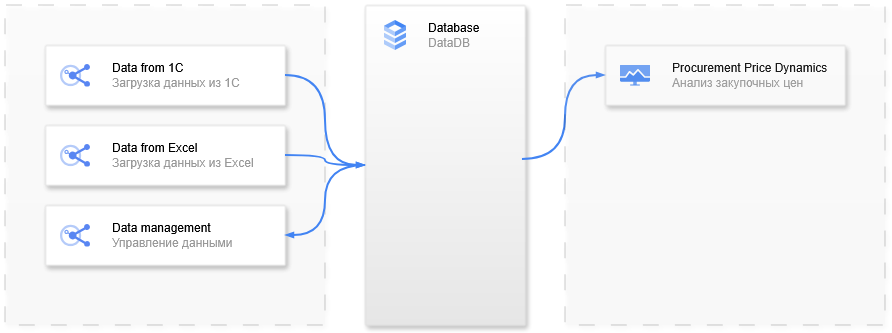
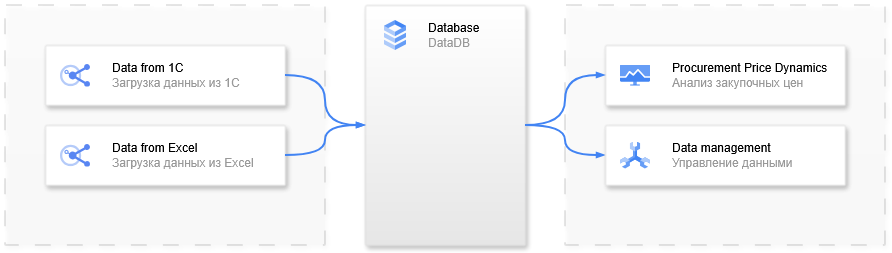
add ProductGroup

diff --git a/DataFrom1C/Infrastructure/Repositories/MSSql/Migrations/20260717121045_AddProductGroup.cs b/DataFrom1C/Infrastructure/Repositories/MSSql/Migrations/20260717121045_AddProductGroup.cs
@@ -1,0 +1,43 @@
+using Microsoft.EntityFrameworkCore.Migrations;
+
+#nullable disable
+
+namespace DataFrom1C.Infrastructure.Repositories.MSSql.Migrations
+{
+    /// <inheritdoc />
+    public partial class AddProductGroup : Migration
+    {
+        /// <inheritdoc />
+        protected override void Up(MigrationBuilder migrationBuilder)
+        {
+            migrationBuilder.AddColumn<string>(
+                name: "ProductGroupId",
+                table: "Contracts",
+                type: "nvarchar(max)",
+                nullable: true);
+
+            migrationBuilder.CreateTable(
+                name: "ProductGroups",
+                columns: table => new
+                {
+                    ProductGroupId = table.Column<string>(type: "nvarchar(450)", nullable: false),
+                    Name = table.Column<string>(type: "nvarchar(max)", nullable: true)
+                },
+                constraints: table =>
+                {
+                    table.PrimaryKey("PK_ProductGroups", x => x.ProductGroupId);
+                });
+        }
+
+        /// <inheritdoc />
+        protected override void Down(MigrationBuilder migrationBuilder)
+        {
+            migrationBuilder.DropTable(
+                name: "ProductGroups");
+
+            migrationBuilder.DropColumn(
+                name: "ProductGroupId",
+                table: "Contracts");
+        }
+    }
+}

diff --git a/DataFrom1C/Infrastructure/DataSource/OneC/GetData1C.cs b/DataFrom1C/Infrastructure/DataSource/OneC/GetData1C.cs
@@ -7,6 +7,7 @@ using DataFrom1C.Infrastructure.DataSource.Models.CreditToCurrentAccount;
 using DataFrom1C.Infrastructure.DataSource.Models.DebitToCurrentAccount;
 using DataFrom1C.Infrastructure.DataSource.Models.ImplementationConstructionWorks;
 using DataFrom1C.Infrastructure.DataSource.Models.Nomenclature;
+using DataFrom1C.Infrastructure.DataSource.Models.NomenclatureGroup;
 using DataFrom1C.Infrastructure.DataSource.Models.ReceiptGoodsServices;
 using DataFrom1C.Infrastructure.DataSource.Models.ReceiptProcessing;
 using DataFrom1C.Infrastructure.DataSource.Models.SaleGoodsServices;
@@ -175,7 +176,7 @@ namespace DataFrom1C.Infrastructure.DataSource.OneC
         public async Task<IEnumerable<Contract>> ContractAsync() // Договоры контрагентов
         {
             var contractCounterpartiesUrl = ApiUrl + "Catalog_ДоговорыКонтрагентов?$format=json"
-                + "&$select=Ref_Key,Номер,Description,Дата,Сумма,Owner_Key"
+                + "&$select=Ref_Key,Номер,Description,Дата,Сумма,Owner_Key,НоменклатурнаяГруппа_Key"
                 + "&$filter=DeletionMark eq false";
             using HttpResponseMessage contractCounterpartiesResponse = await httpClient.GetAsync(contractCounterpartiesUrl);
             var contractCounterparties = await contractCounterpartiesResponse.Content.ReadFromJsonAsync<ContractCounterparties>();
@@ -186,7 +187,8 @@ namespace DataFrom1C.Infrastructure.DataSource.OneC
                 Amount = x.Amount ?? 0,
                 Number = x.Number,
                 Name = x.Name,
-                ContractorId = x.ContractorId
+                ContractorId = x.ContractorId,
+                ProductGroupId = x.ProductGroupId
             });
         }
 
@@ -290,6 +292,28 @@ namespace DataFrom1C.Infrastructure.DataSource.OneC
                 CashFlowItemId = x.Ref_Key,
                 Name = x.Description
             });
+        }
+
+        public async Task<IEnumerable<ProductGroup>> ProductGroupAsync() // Номенклатурные группы
+        {
+            var nomenclatureGroupsUrl = ApiUrl + "Catalog_НоменклатурныеГруппы?$format=json"
+                + "&$select=Ref_Key,Description"
+                + "&$filter=DeletionMark eq false";
+            using HttpResponseMessage nomenclatureGroupsResponse = await httpClient.GetAsync(nomenclatureGroupsUrl);
+            var nomenclatureGroups = await nomenclatureGroupsResponse.Content.ReadFromJsonAsync<NomenclatureGroup>();
+            return nomenclatureGroups.Value.Select(x => new ProductGroup
+            {
+                ProductGroupId = x.Ref_Key,
+                Name = x.Description
+            });
+        }
+
+        public async Task<AdditionalInformation> AdditionalInformationAsync() // Дополнительные сведения
+        {
+            var additionalInformationUrl = ApiUrl + "InformationRegister_ДополнительныеСведения?$format=json"
+                + "&$select=Объект,Значение,Значение_Type";
+            using HttpResponseMessage additionalInformationResponse = await httpClient.GetAsync(additionalInformationUrl);
+            return await additionalInformationResponse.Content.ReadFromJsonAsync<AdditionalInformation>();
         }
     }
 }

diff --git a/DataFrom1C/Domain/ProductGroup.cs b/DataFrom1C/Domain/ProductGroup.cs
@@ -1,0 +1,11 @@
+using System.ComponentModel.DataAnnotations;
+
+namespace DataFrom1C.Domain
+{
+    public class ProductGroup
+    {
+        [Key]
+        public string ProductGroupId { get; set; }
+        public string Name { get; set; }
+    }
+}

diff --git a/DataFrom1C/Infrastructure/DataSource/Models/NomenclatureGroup/NomenclatureGroup.cs b/DataFrom1C/Infrastructure/DataSource/Models/NomenclatureGroup/NomenclatureGroup.cs
@@ -1,0 +1,10 @@
+using System.Text.Json.Serialization;
+
+namespace DataFrom1C.Infrastructure.DataSource.Models.NomenclatureGroup
+{
+    public class NomenclatureGroup
+    {
+        [JsonPropertyName("value")]
+        public NomenclatureGroupValue[] Value { get; set; }
+    }
+}

diff --git a/DataFrom1C/Infrastructure/DataSource/Models/NomenclatureGroup/NomenclatureGroupValue.cs b/DataFrom1C/Infrastructure/DataSource/Models/NomenclatureGroup/NomenclatureGroupValue.cs
@@ -1,0 +1,8 @@
+namespace DataFrom1C.Infrastructure.DataSource.Models.NomenclatureGroup
+{
+    public class NomenclatureGroupValue
+    {
+        public string Ref_Key { get; set; }
+        public string Description { get; set; }
+    }
+}

diff --git a/DataFrom1C/Infrastructure/Repositories/MSSql/MSSqlRepository.cs b/DataFrom1C/Infrastructure/Repositories/MSSql/MSSqlRepository.cs
@@ -91,5 +91,12 @@ namespace DataFrom1C.Infrastructure.Repositories.MSSql
             await _dataContext.CashFlowItems.AddRangeAsync(cashFlowItems);
             await _dataContext.SaveChangesAsync();
         }
+
+        public async Task ProductGroupAsync(IEnumerable<ProductGroup> productGroups)
+        {
+            await _dataContext.Database.ExecuteSqlRawAsync("TRUNCATE TABLE ProductGroups");
+            await _dataContext.ProductGroups.AddRangeAsync(productGroups);
+            await _dataContext.SaveChangesAsync();
+        }
     }
 }

diff --git a/DataFrom1C/Application/Services/UpdateDataService.cs b/DataFrom1C/Application/Services/UpdateDataService.cs
@@ -78,5 +78,11 @@ namespace DataFrom1C.Application.Services
             var getCashFlowItem = await _getData.CashFlowItemAsync();
             await _saveData.CashFlowItemAsync(getCashFlowItem);
         }
+
+        public async Task ProductGroupAsync()
+        {
+            var getProductGroup = await _getData.ProductGroupAsync();
+            await _saveData.ProductGroupAsync(getProductGroup);
+        }
     }
 }

diff --git a/DataFrom1C/Domain/MoreInformation.cs b/DataFrom1C/Domain/MoreInformation.cs
@@ -1,0 +1,6 @@
+namespace DataFrom1C.Domain
+{
+    public class MoreInformation
+    {
+    }
+}

diff --git a/DataManagement/Infrastructure/Repositories/MSSql/MSSqlRepository.cs b/DataManagement/Infrastructure/Repositories/MSSql/MSSqlRepository.cs
@@ -11,10 +11,9 @@ namespace DataManagement.Infrastructure.Repositories.MSSql
 
         public async Task<IEnumerable<AddObjectOfSaleInPurchasePayment>> AddObjectOfSaleInPurchasePaymentAsync()
         {
-            string sql = "SELECT DocumentId, Date, Amount, ContractId, PaymentPurpose, CashFlowItems.Name AS CashFlowItem " +
-                "FROM PurchasePayments " +
-                "LEFT JOIN CashFlowItems ON PurchasePayments.CashFlowItemId = CashFlowItems.CashFlowItemId";
+            string sql = "SELECT PurchasePayments.DocumentId, PurchasePayments.ContractId, PurchasePayments.Date, PurchasePayments.Amount, PaymentPurpose, CashFlowItems.Name AS CashFlowItem,\r\nProductGroups.Name AS PropertyContract\r\nFROM PurchasePayments\r\nLEFT JOIN CashFlowItems ON PurchasePayments.CashFlowItemId = CashFlowItems.CashFlowItemId\r\nLEFT JOIN Contracts ON PurchasePayments.ContractId = Contracts.ContractId\r\nLEFT JOIN ProductGroups ON Contracts.ProductGroupId = ProductGroups.ProductGroupId\r\nWHERE NOT EXISTS ( SELECT * FROM ObjectOfSaleInPurchasePayments WHERE ObjectOfSaleInPurchasePayments.DocumentId = PurchasePayments.DocumentId)\r\nAND YEAR(PurchasePayments.Date) > 2025\r\nORDER BY PurchasePayments.Date";
             return await _dbConnection.QueryAsync<AddObjectOfSaleInPurchasePayment>(sql);
         }
     }
 }
+

diff --git a/DataFrom1C/Infrastructure/DataSource/Models/ContractCounterparties/ContractCounterpartiesValue.cs b/DataFrom1C/Infrastructure/DataSource/Models/ContractCounterparties/ContractCounterpartiesValue.cs
@@ -21,5 +21,8 @@ namespace DataFrom1C.Infrastructure.DataSource.Models.ContractCounterparties
 
         [JsonPropertyName("Owner_Key")]
         public string ContractorId { get; set; } // Подрядчик
+
+        [JsonPropertyName("НоменклатурнаяГруппа_Key")]
+        public string ProductGroupId { get; set; }
     }
 }

diff --git a/DataFrom1C/Application/Interfaces/IGetData.cs b/DataFrom1C/Application/Interfaces/IGetData.cs
@@ -16,5 +16,6 @@ namespace DataFrom1C.Application.Interfaces
         Task<IEnumerable<ProductAndService>> ProductAndServiceAsync();
         Task<IEnumerable<Warehouse>> WarehouseAsync();
         Task<IEnumerable<CashFlowItem>> CashFlowItemAsync();
+        Task<IEnumerable<ProductGroup>> ProductGroupAsync();
     }
 }

diff --git a/DataFrom1C/Application/Interfaces/ISaveData.cs b/DataFrom1C/Application/Interfaces/ISaveData.cs
@@ -16,5 +16,6 @@ namespace DataFrom1C.Application.Interfaces
         Task ProductAndServiceAsync(IEnumerable<ProductAndService> productsAndServices);
         Task WarehouseAsync(IEnumerable<Warehouse> warehouses);
         Task CashFlowItemAsync(IEnumerable<CashFlowItem> cashFlowItems);
+        Task ProductGroupAsync(IEnumerable<ProductGroup> productGroups);
     }
 }